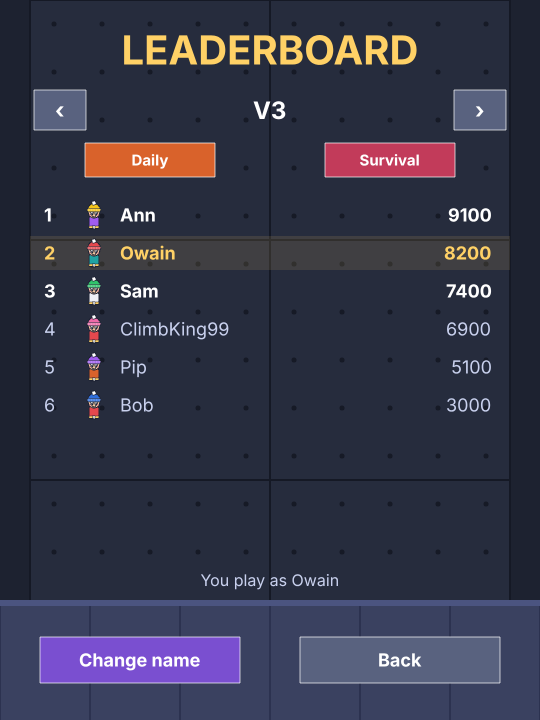
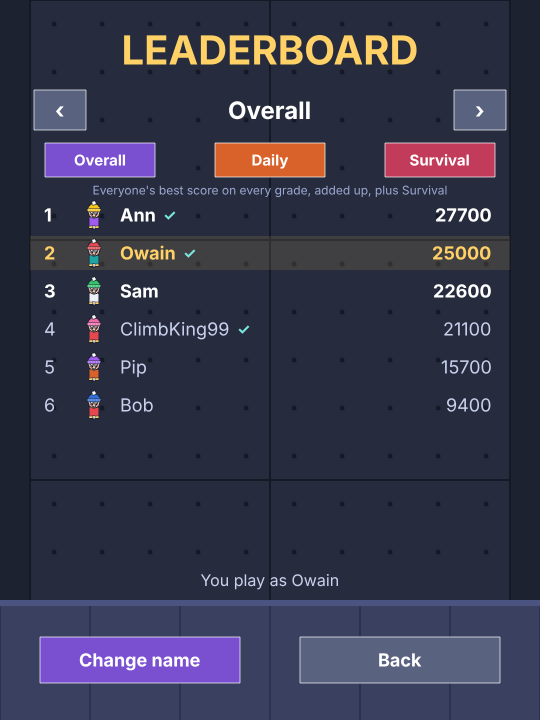
Add Overall leaderboard and Account screenshots
Claude-Session: https://claude.ai/code/session_0177vdUkiav8F1CgPU7AkMxK

diff --git a/README.md b/README.md
@@ -24,6 +24,7 @@ Built with TypeScript, [Phaser 3](https://phaser.io) and Vite. All art and sound
   <tr>
     <td align="center"><img src="docs/screenshots/customise.png" width="240" alt="Choosing the climber's beanie, shirt and chalk bag"><br><sub>Customise</sub></td>
     <td align="center"><img src="docs/screenshots/leaderboard.png" width="240" alt="A leaderboard with each player's climber next to their score"><br><sub>Leaderboard</sub></td>
+    <td align="center"><img src="docs/screenshots/account.png" width="240" alt="The signed-in account screen with change name, sync and sign out"><br><sub>Account</sub></td>
   </tr>
 </table>
 
